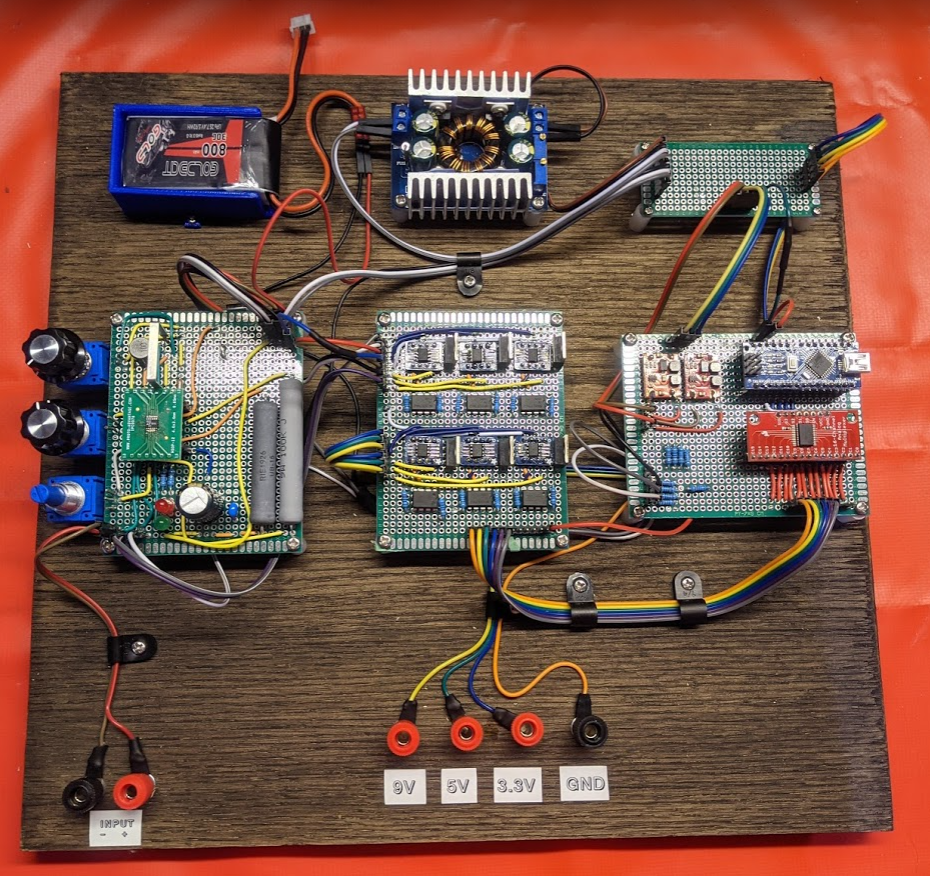
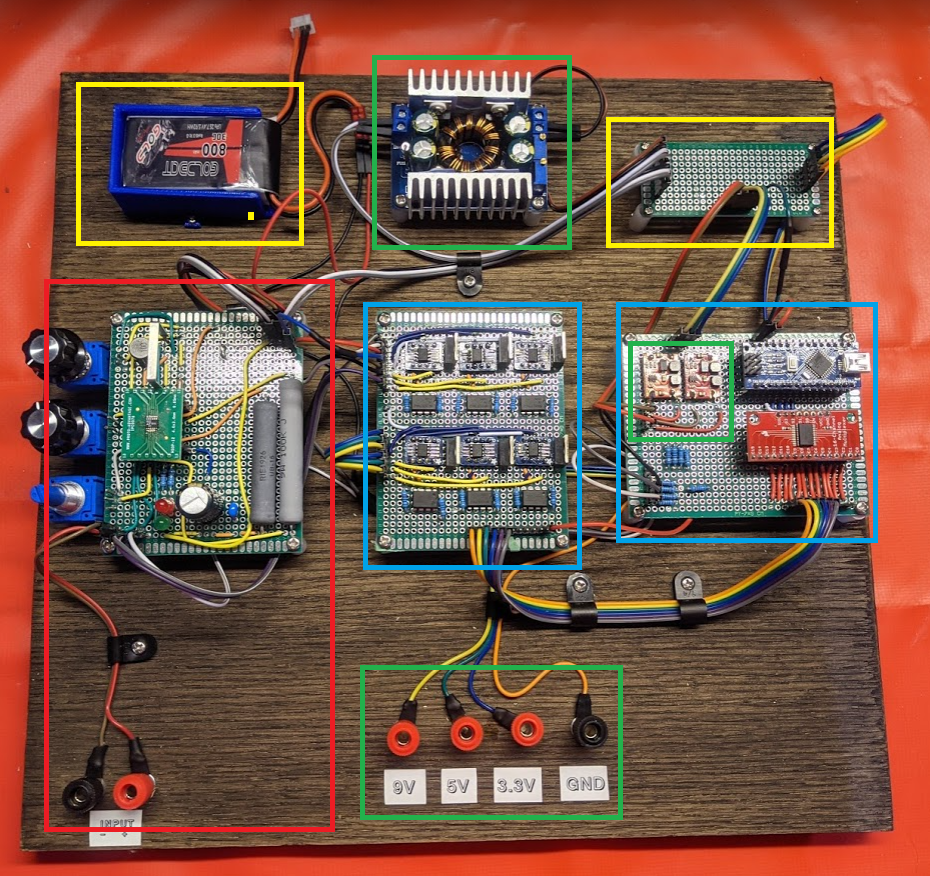
Updates to the prototype explanation and image.

diff --git a/README.md b/README.md
@@ -73,6 +73,12 @@ A prototype version is pictured below:
 
 ![alt text](https://github.com/MaxPolzinCU/EDUSAT/blob/master/Hardware/edusat_protoV1.png?raw=true)
 
+Note the colours around each component:
++ RED = MPPT and system input (either through a solar panel or a PSU).
++ BLUE = Telemetry boards, the one on the left is full of current sensors and amplifiers. The one on the right has the voltage divider, MUX, and arduino. Headers are used to connect the current sensing board and temperature sensors to the MUX.
++ Green = DC-DC conversion and system output. The top board is the 9V buck-boost, then the 3V3 and 5V boards are mounted side by side on the telemetry board.
++ Yellow = A 800 mAH 2S 7.4V Lipo in a 3D printed mount and a extra board that serves as a junction between all the components.
+
 ### Bill of Materials:
 !ADD BOM FOR PROTO!
 !ADD DATA SHEETS FOR MAIN COMPONENTS!
@@ -94,10 +100,14 @@ Data from the sensors is updated via the SystemStatus's *updateStatus* function.
 Where the *V,C, and T* represent a integer voltage, current, or temperature. The H and F are used to denote the start and end of a individual message.
 
 ### Sensor Measurements
-!ADD!
-*Voltage (???? Voltage divider)
-*Current (???? Current Sensor)
-*Temperature (???? Thermistor) 
+**Voltage Sensors**: Voltage sensing is achieved by simply connecting various points of the system to the pins of the MUX. Since the arduino is limited to 5V on its digital and analog pins some votlage dividers are used when measuring certain parts of the system. For example the 9V DC-DC output is measured and run through a voltage divider to ensure the pins of the Arduino are not damaged. The calculations to convert the reduced voltage back to the actual value at the test point are found below for each sensor in the circuit.
+
+[ADD TABLE]
+
+**Current Sensors**: Current sensing is achieved using the 
+
+**Temperature Sensors**:
+
 
 ## EDUSAT Software - WebApp
 EDUSAT's main interface is a web-client that can be viewed in any web browser and launched from any computer. In order to launch and open the app, follow the instructions below:
